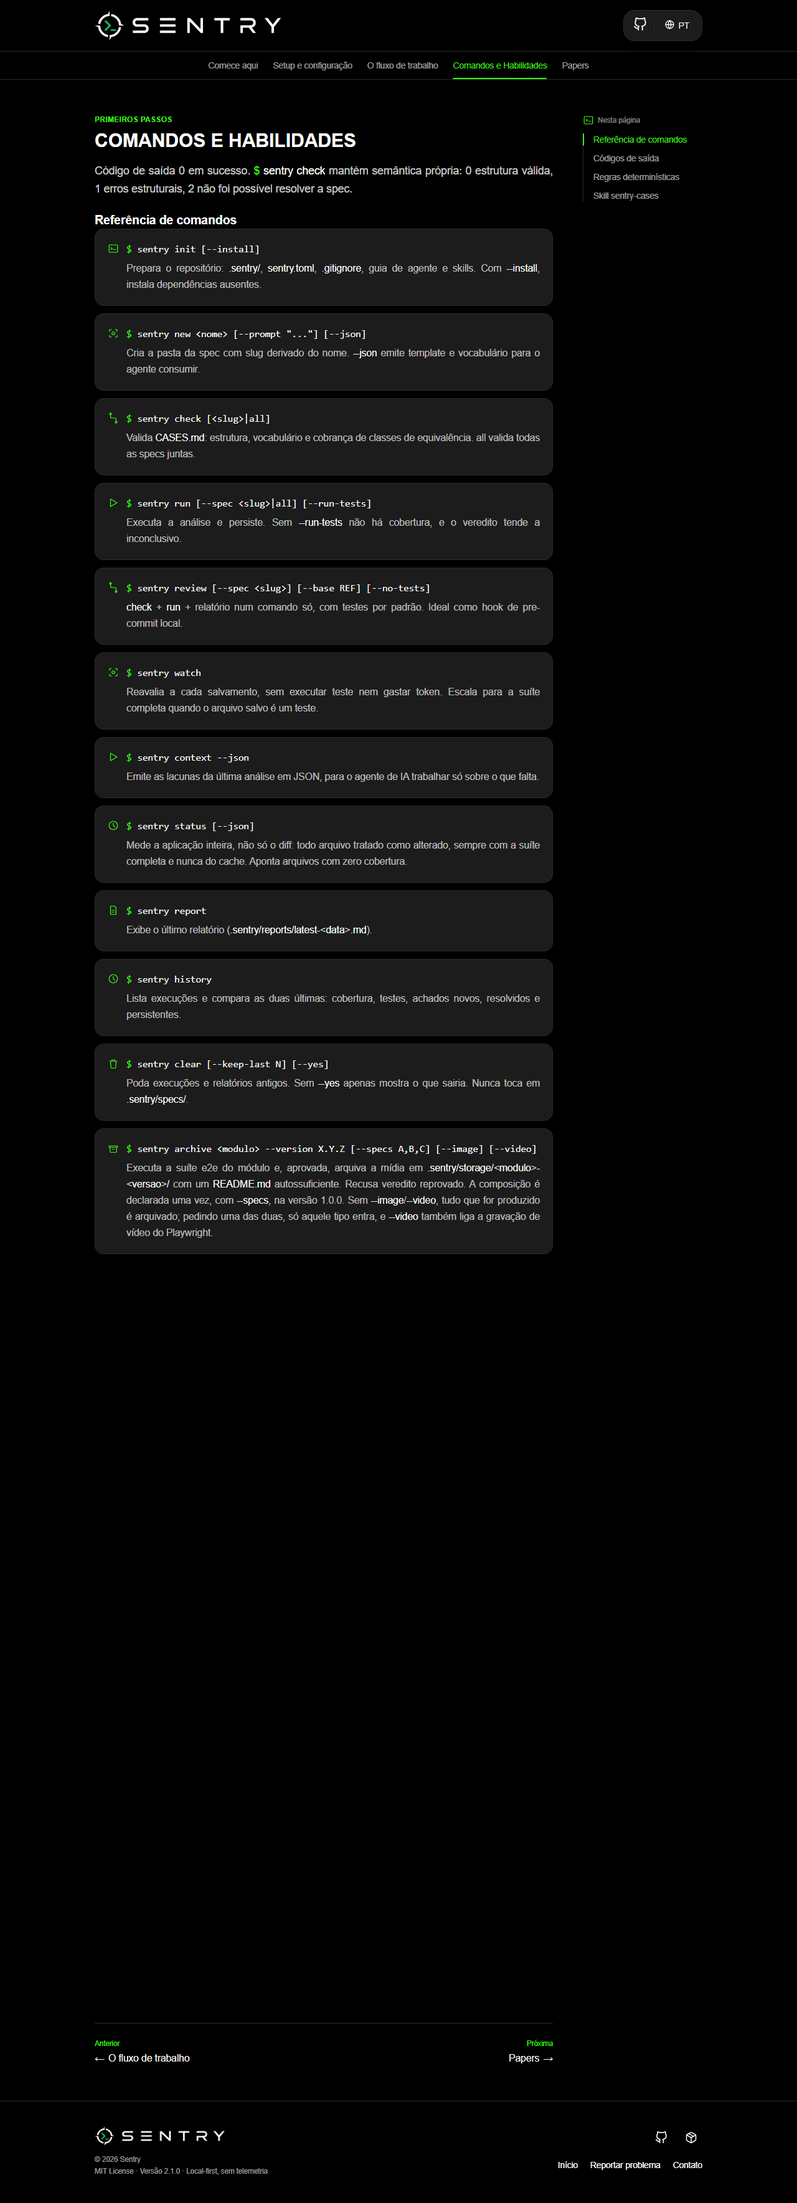
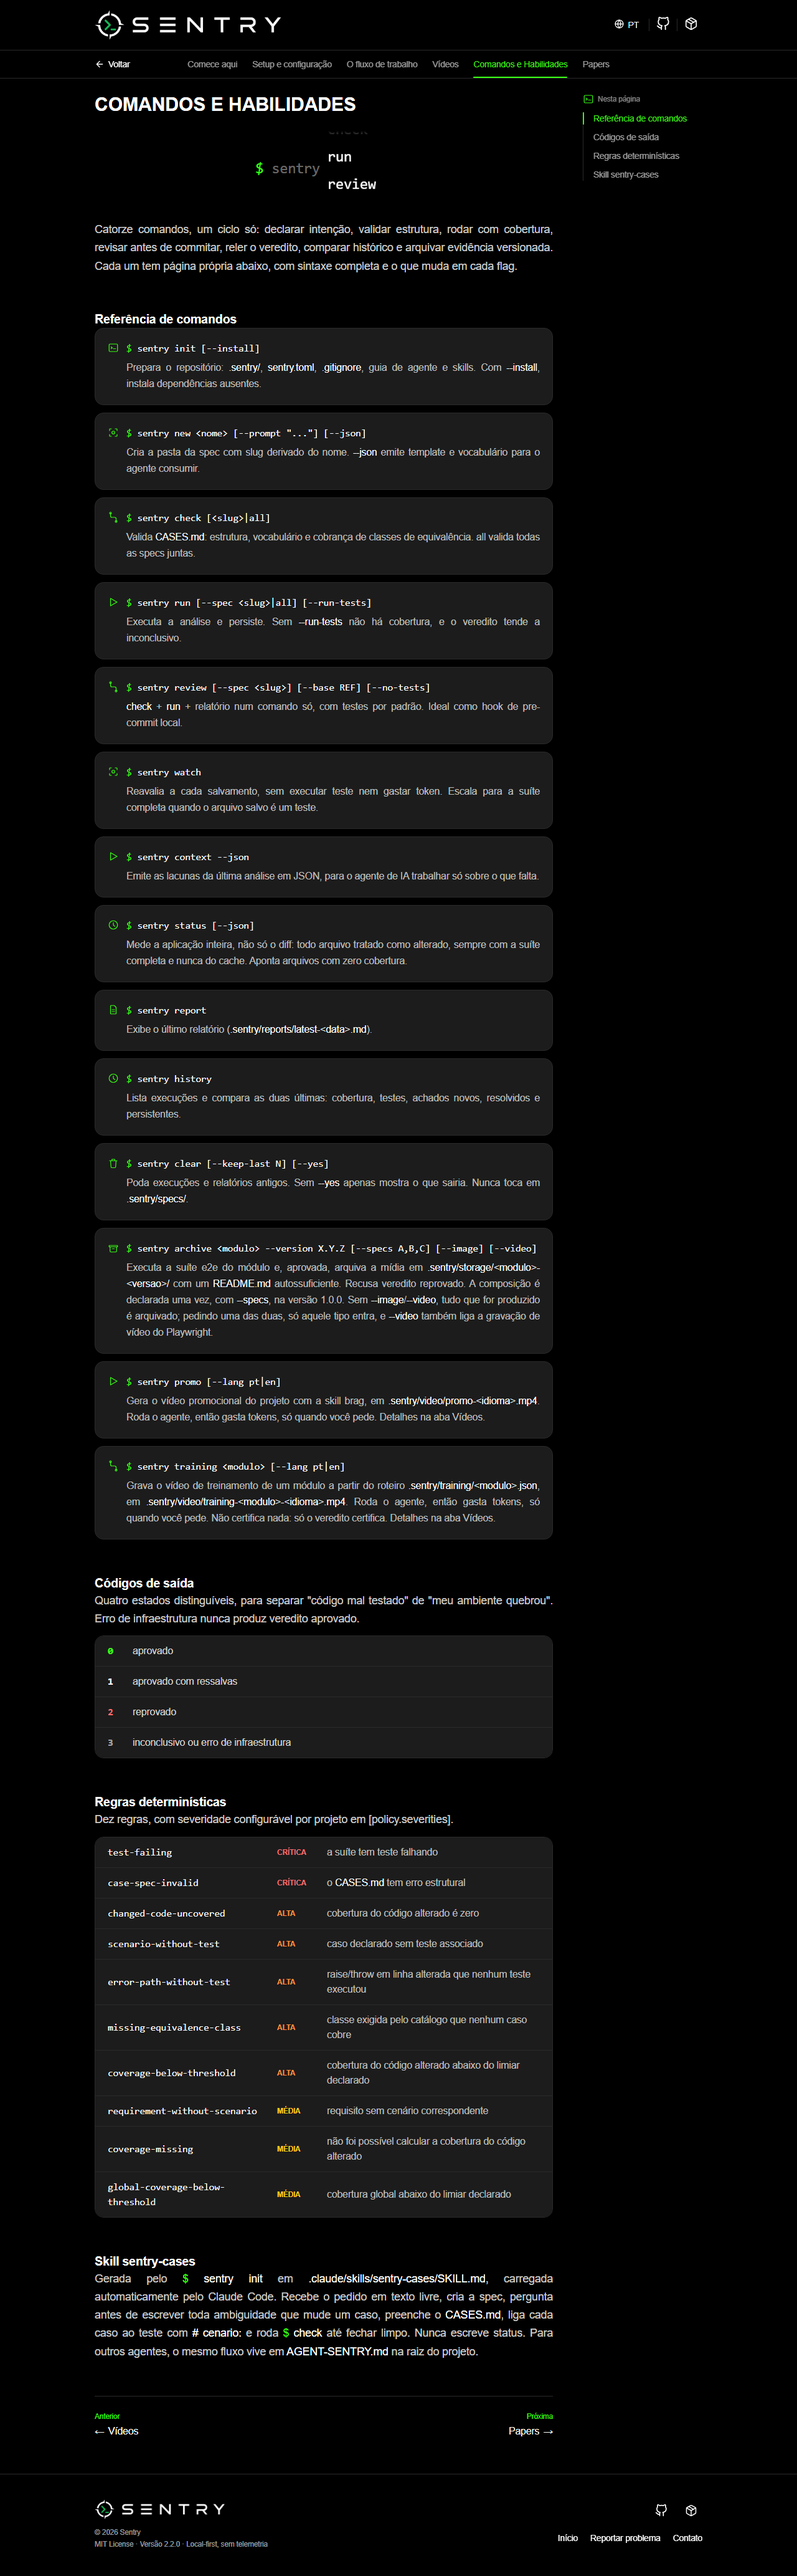
chore(archive): evidência visual do módulo aplicacao v1.0.0, com a aba Vídeos
Prints de desktop e mobile das sete rotas, tirados depois das animações, com o
carimbo do commit que contém o que as imagens mostram.

diff --git a/.sentry/storage/aplicacao-1.0.0/README.md b/.sentry/storage/aplicacao-1.0.0/README.md
@@ -1,7 +1,7 @@
 # Módulo aplicacao — v1.0.0
 
-- Arquivado em: 28/09/2026 10:31:06 (UTC-4)
-- Commit: 510881487105
+- Arquivado em: 02/10/2026 14:54:04 (UTC-4)
+- Commit: 75512b38c9bf
 - Veredito: sem certificação — registro visual
 
 ## Rotas fotografadas
@@ -12,10 +12,12 @@
 | /docs?tab=start | [print](docs-tab-start/desktop.png) | [print](docs-tab-start/mobile.png) |
 | /docs?tab=setup | [print](docs-tab-setup/desktop.png) | [print](docs-tab-setup/mobile.png) |
 | /docs?tab=workflow | [print](docs-tab-workflow/desktop.png) | [print](docs-tab-workflow/mobile.png) |
+| /docs?tab=videos | [print](docs-tab-videos/desktop.png) | [print](docs-tab-videos/mobile.png) |
 | /docs?tab=commands | [print](docs-tab-commands/desktop.png) | [print](docs-tab-commands/mobile.png) |
 | /docs?tab=papers | [print](docs-tab-papers/desktop.png) | [print](docs-tab-papers/mobile.png) |
 
 ## Limitações
 
 - Módulo sem specs associadas: os prints e vídeos aqui são registro do estado visual, não certificação de que o módulo funciona.
+- Animações de entrada por rolagem: o Sentry as dispara todas antes do print, então a página aparece já revelada, como para quem rolou até o fim.
 - Estado que a URL não alcança sozinha (dado específico já salvo no banco, modal aberto por interação) não é capturado nesta versão.
